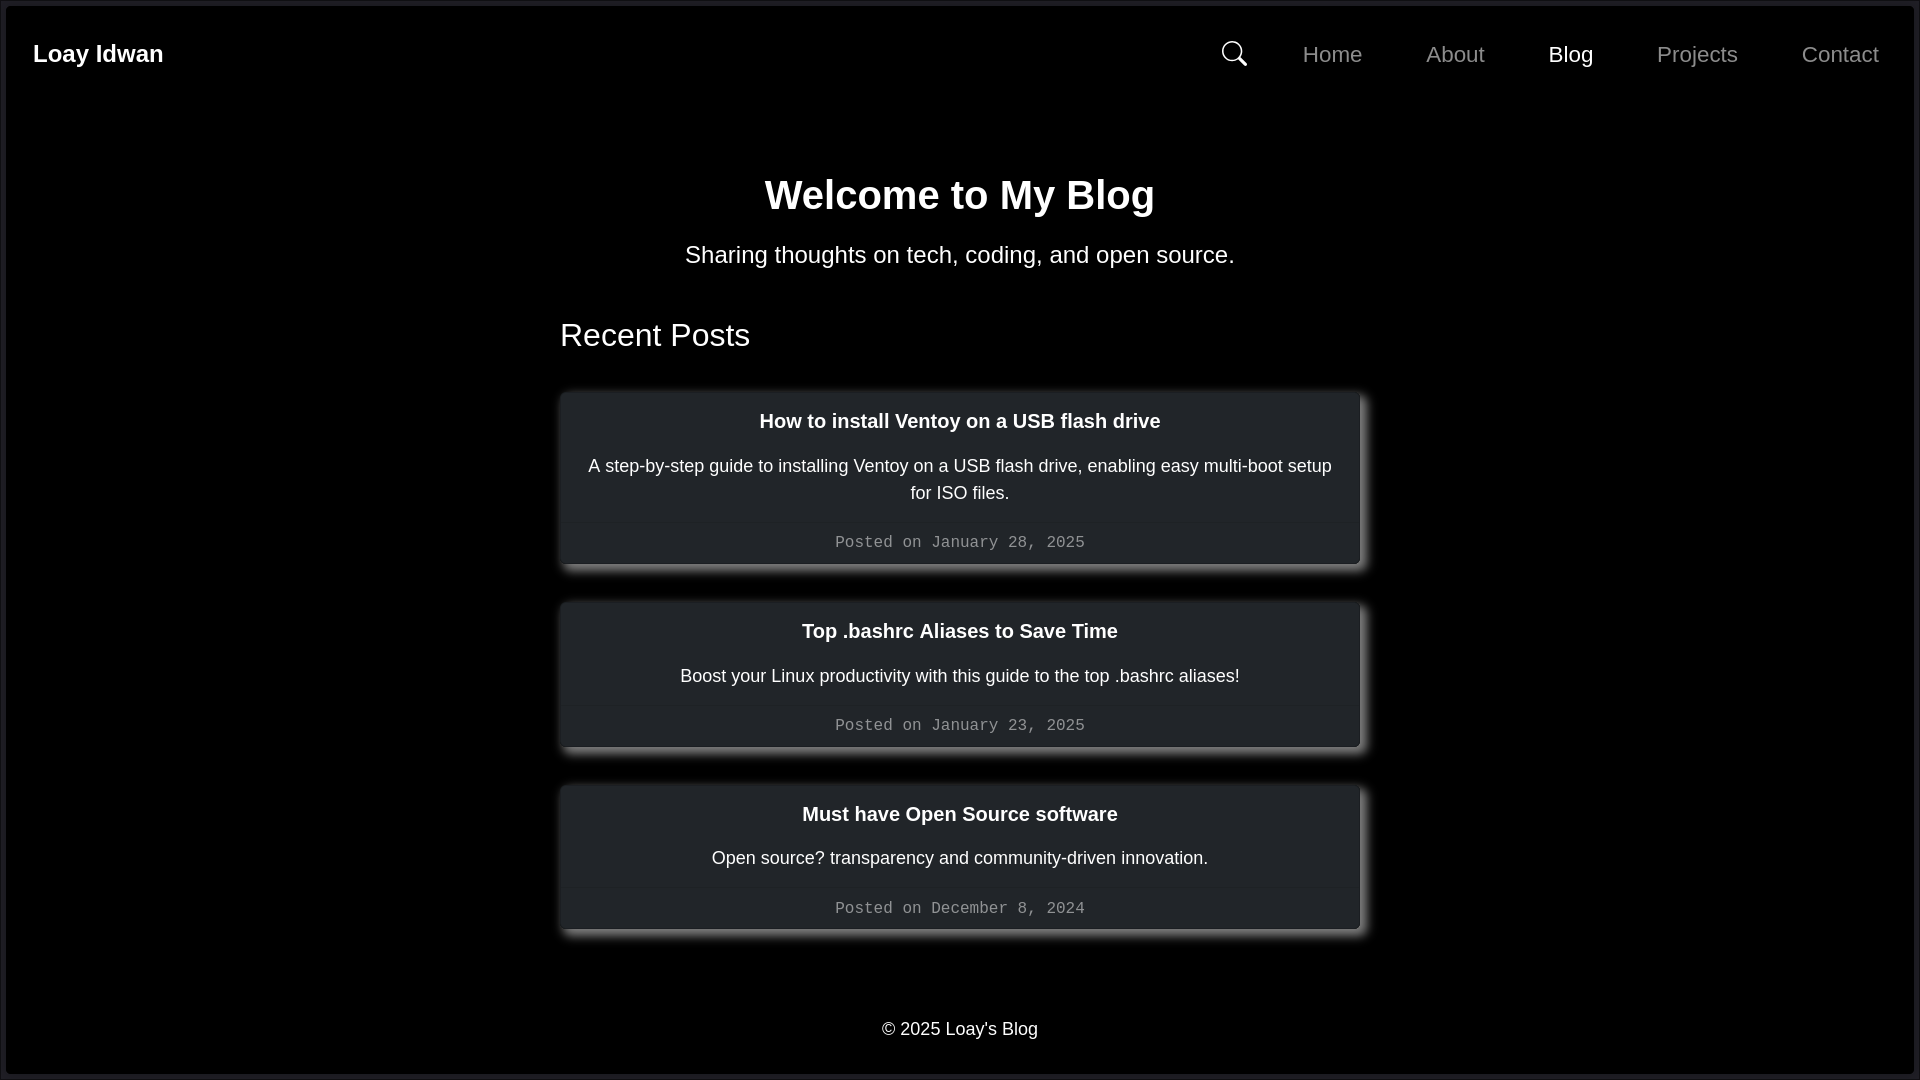
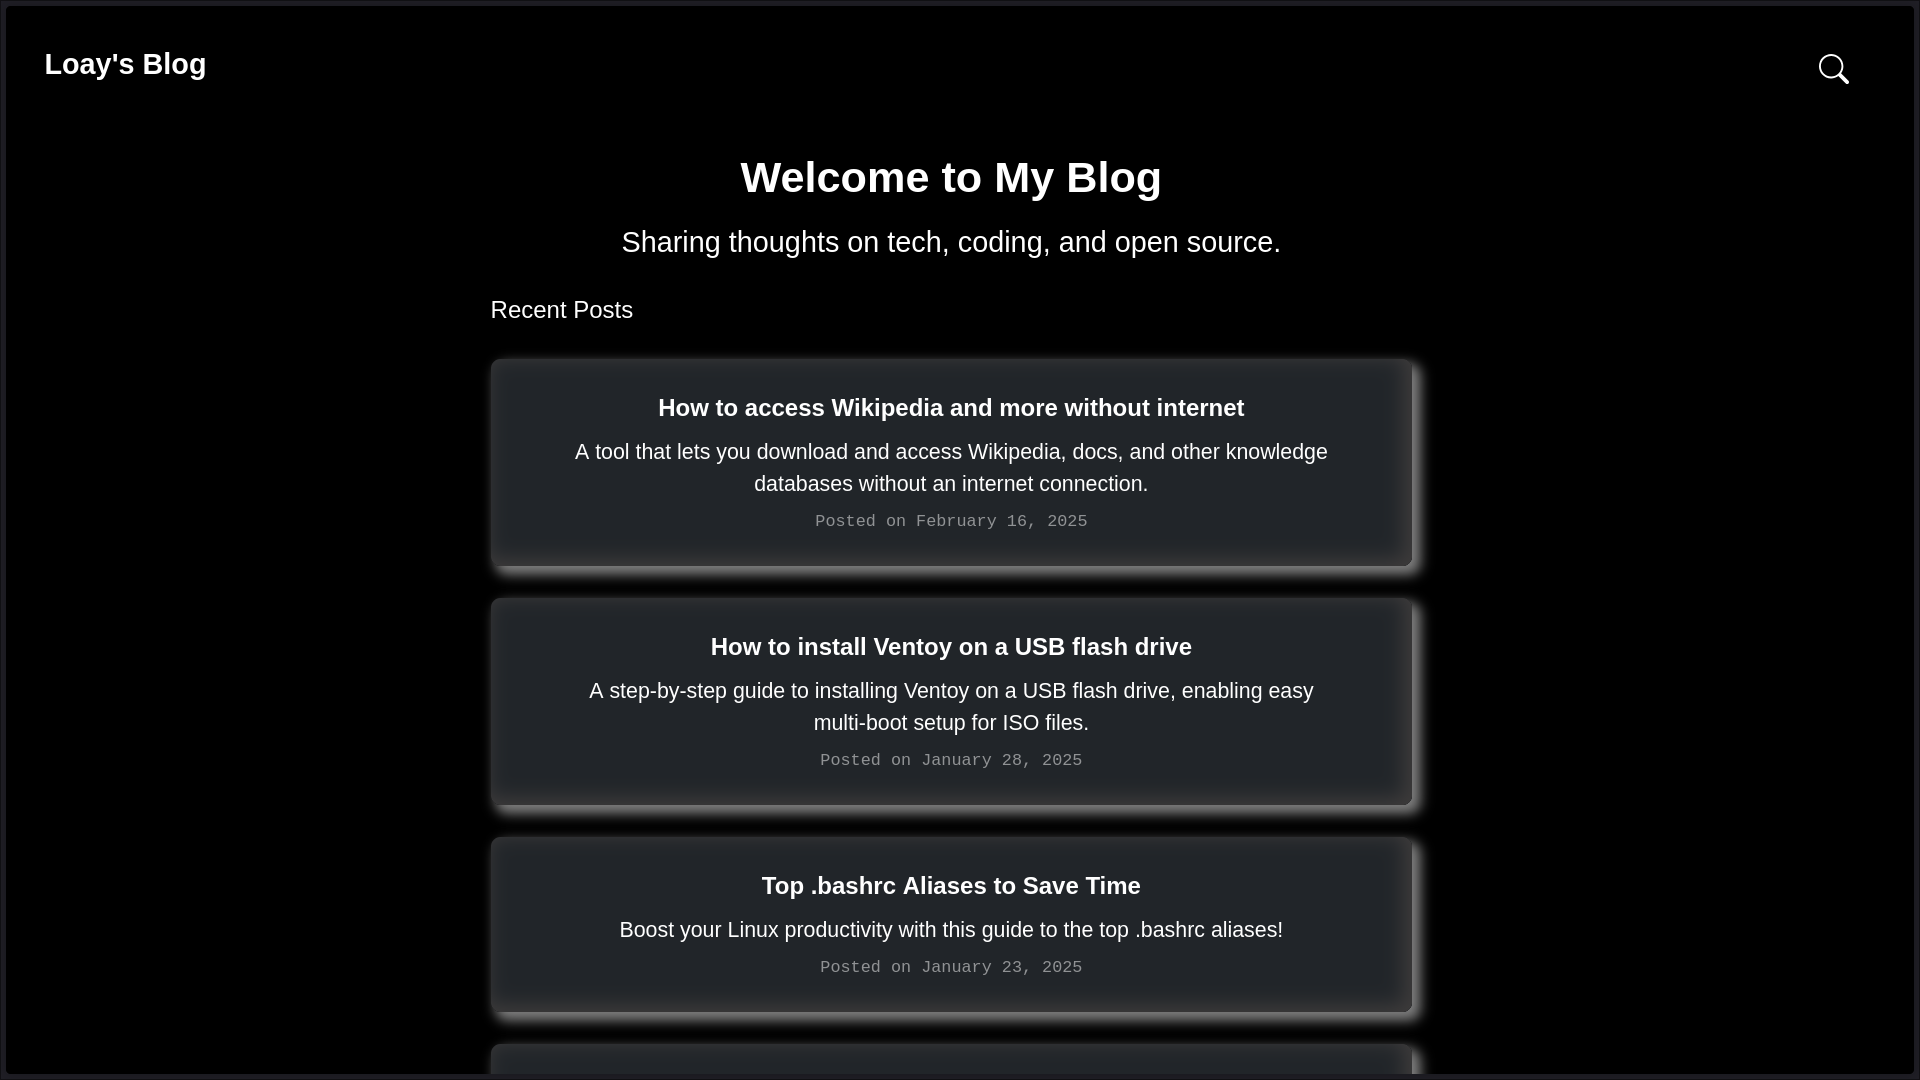
Added images for all posts for SEO

diff --git a/lib/posts.js b/lib/posts.js
@@ -4,6 +4,7 @@ const posts = [
         title: "How to access Wikipedia and more without internet",
         description: "A tool that lets you download and access Wikipedia, docs, and other knowledge databases without an internet connection.",
         file: "/posts/how-to-access-Wikipedia-and-more-without-internet.md",
+        picutre: "https://blog.loayidwan.com/images/how-to-access-Wikipedia-and-more-without-internet.png",
         tags: ["open", "source", "wiki", "wikipedia", "download", "offline", "kiwix", "docs"],
         dateCreated: "February 16, 2025",
         dateModified: "February 19, 2025"
@@ -13,6 +14,7 @@ const posts = [
         title: "How to install Ventoy on a USB flash drive",
         description: "A step-by-step guide to installing Ventoy on a USB flash drive, enabling easy multi-boot setup for ISO files.",
         file: "/posts/how-to-install-ventoy-on-a-usb-flash-drive.md",
+        picutre: "https://blog.loayidwan.com/images/how-to-install-ventoy-on-a-usb-flash-drive.png",
         tags: ["open", "source", "drive", "ventoy", "ISO", "Linux", "Windows", "usb", "multiple"],
         dateCreated: "January 28, 2025",
         dateModified: "January 28, 2025"
@@ -22,6 +24,7 @@ const posts = [
         title: "Top .bashrc Aliases to Save Time",
         description: "Boost your Linux productivity with this guide to the top .bashrc aliases!",
         file: "/posts/top-bashrc-aliases.md",
+        picutre: "https://blog.loayidwan.com/images/top-bashrc-aliases.png",
         tags: ["bashrc", "bashrc", "alias", "time", "save", "top", "file", "command"],
         dateCreated: "January 23, 2025",
         dateModified: "January 23, 2025"
@@ -31,6 +34,7 @@ const posts = [
         title: "Must have Open Source software",
         description: "Open source? transparency and community-driven innovation.",
         file: "/posts/must-have-open-source-software.md",
+        picutre: "https://blog.loayidwan.com/images/must-have-open-source-software.png",
         tags: ["open", "source", "vpn", "encryption", "2fa", "password", "manager", "usb", "list"],
         dateCreated: "December 8, 2024",
         dateModified: "February 12, 2025"

diff --git a/app/layout.js b/app/layout.js
@@ -1,27 +1,41 @@
-import { Geist, Geist_Mono } from "next/font/google";
 import "./globals.css";
 
-const geistSans = Geist({
-  variable: "--font-geist-sans",
-  subsets: ["latin"],
-});
-
-const geistMono = Geist_Mono({
-  variable: "--font-geist-mono",
-  subsets: ["latin"],
-});
 
 export const metadata = {
   title: "Loay's Blog",
   description: "Loay Idwan's Blog, Sharing thoughts on tech, coding, and open source.",
+  keywords: "Loay Idwan, blog, technology, coding, open source, programming, web development",
+  author: "Loay Idwan",
+  creator: 'Loay Idwan',
+  publisher: 'Loay Idwan',
+  category: 'technology',
+  robots: {
+    index: true,
+    follow: true,
+    nocache: false,
+    googleBot: {
+      index: true,
+      follow: true,
+      noimageindex: false,
+      'max-video-preview': -1,
+      'max-image-preview': 'large',
+      'max-snippet': -1,
+    },
+  },
+  og: {
+    title: "Loay's Blog",
+    description: "Loay Idwan's Blog, Sharing thoughts on tech, coding, and open source.",
+    image: "https://blog.loayidwan.com/images/blog.png",
+    url: "https://blog.loayidwan.com",
+    type: "website",
+  },
+  canonical: "https://blog.loayidwan.com",
 };
 
 export default function RootLayout({ children }) {
   return (
     <html lang="en">
-      <body
-        className={`${geistSans.variable} ${geistMono.variable} antialiased`}
-      >
+      <body>
         {children}
       </body>
     </html>

diff --git a/app/posts/[id]/page.js b/app/posts/[id]/page.js
@@ -64,6 +64,7 @@ export async function generateMetadata({ params }) {
                 type: 'article', 
                 publishedTime: post.dateCreated,
                 authors: "Loay Idwan",
+                image: post.picutre,
             },
             twitter: {
                 card: 'summary_large_image',
